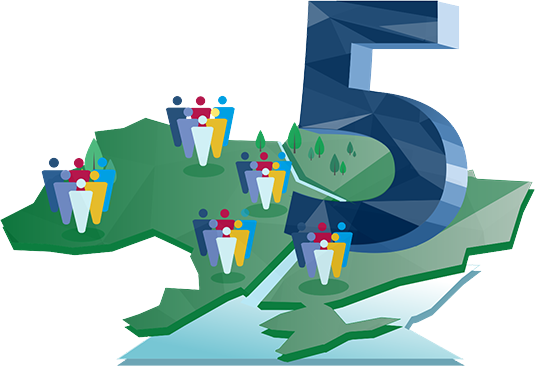
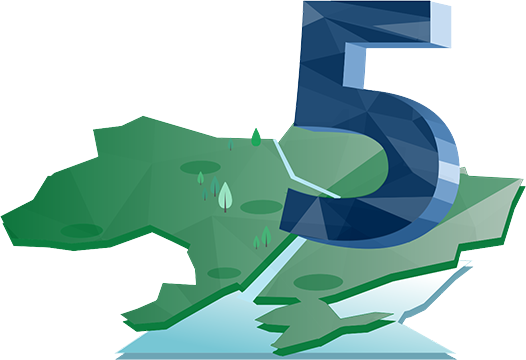
end of ww

diff --git a/include/css/main.css b/include/css/main.css
@@ -1785,6 +1785,77 @@ footer .info-block:hover {
     transform: translateX(500px);
   }
 }
+.ww3-man1,
+.ww3-man2,
+.ww3-man3,
+.ww3-man4,
+.ww3-man5,
+.ww3-man6,
+.ww3-man7 {
+  position: absolute;
+  top: 250px;
+  left: 600px;
+  z-index: 12;
+  opacity: 0;
+  animation: walk 4s linear 1s infinite;
+}
+.ww3-man1 {
+  top: 265px;
+  left: 600px;
+}
+.ww3-man2 {
+  top: 265px;
+  left: 605px;
+  animation-duration: 3.5s;
+  animation-delay: 2s;
+}
+.ww3-man3 {
+  top: 255px;
+  left: 595px;
+  animation-duration: 3.2s;
+  animation-delay: 1.5s;
+}
+.ww3-man4 {
+  top: 255px;
+  left: 605px;
+  animation-duration: 3.5s;
+  animation-delay: 1.8s;
+}
+.ww3-man5 {
+  top: 250px;
+  left: 600px;
+  animation-duration: 5.5s;
+  animation-delay: 0s;
+}
+.ww3-man6 {
+  top: 255px;
+  left: 605px;
+  animation-duration: 5.5s;
+  animation-delay: .2s;
+}
+.ww3-man7 {
+  top: 255px;
+  left: 605px;
+  animation-duration: 3.5s;
+  animation-delay: .2s;
+}
+@keyframes walk {
+  0% {
+    opacity: 0
+  }
+  2% {
+    opacity: 1
+  }
+  70% {
+   transform: translate(-420px, -5px);
+  }
+  95% {
+    opacity: 1;
+  }
+  100% {
+    transform: translate(-500px, -60px);
+  }
+}
 /*why we animation on third image*/
 .ww4-1 {
   position: absolute;
@@ -1830,8 +1901,8 @@ footer .info-block:hover {
 }
 .ww4-7 {
   position: absolute;
-  top: 150px;
-  left: 465px;
+  top: 160px;
+  left: 468px;
   transform-origin: 50% 70%;
   animation: trees 6s linear alternate infinite;
 }
@@ -1855,6 +1926,49 @@ footer .info-block:hover {
   }
   100% {
     transform: skewX(-5deg);
+  }
+}
+.ww4-people1 {
+  position: absolute;
+  top: 50px;
+  left: 390px;
+  z-index: 30;
+  animation: ppls .8s ease-in-out 0s infinite alternate;
+}
+.ww4-people2 {
+  position: absolute;
+  top: 105px;
+  left: 600px;
+  z-index: 30;
+  animation: ppls .8s ease-in-out .1s infinite alternate;
+}
+.ww4-people3 {
+  position: absolute;
+  top: -10px;
+  left: 698px;
+  z-index: 30;
+  animation: ppls .8s ease-in-out 0.2s infinite alternate;
+}
+.ww4-people4 {
+  position: absolute;
+  top: -205px;
+  left: 293px;
+  z-index: 30;
+  animation: ppls .8s ease-in-out 0.3s infinite alternate;
+}
+.ww4-people5 {
+  position: absolute;
+  top: -233px;
+  left: 295px;
+  z-index: 30;
+  animation: ppls .8s ease-in-out 0.4s infinite alternate;
+}
+@keyframes ppls {
+  0% {
+    transform: translateY(-5px)
+  }
+  100% {
+    transform: translateY(5px)
   }
 }
 /**************************/
@@ -2071,6 +2185,9 @@ footer .info-block:hover {
     transform: translateY(0px)
   }
 }
+/***************************************/
+/*facebook animatio*/
+/****************************************/
 .fb {
   width: 159px;
   height: 67px;

diff --git a/index.html b/index.html
@@ -193,6 +193,13 @@
               <img src="/include/images/whywe3-2.png" alt="tycha" class="ww3-2">
               <img src="/include/images/whywe3-3.png" alt="tycha" class="ww3-3">
               <img src="/include/images/whywe3-4.png" alt="tycha" class="ww3-4">
+              <img src="/include/images/man-small-blue.png" alt="man" class="ww3-man1">
+              <img src="/include/images/man-small-orange.png" alt="man" class="ww3-man2">
+              <img src="/include/images/man-small-pink.png" alt="man" class="ww3-man3">
+              <img src="/include/images/man-small-red.png" alt="man" class="ww3-man4">
+              <img src="/include/images/man-small-violent.png" alt="man" class="ww3-man5">
+              <img src="/include/images/man-small-yellow.png" alt="man" class="ww3-man6">
+              <img src="/include/images/man-small-yellow.png" alt="man" class="ww3-man7">
             </div>
           </div>
           <div class="description">
@@ -217,6 +224,11 @@
               <img src="/include/images/whywe4-7.png" alt="tree-7" class="ww4-7">
               <img src="/include/images/whywe4-8.png" alt="tree-8" class="ww4-8">
               <img src="/include/images/whywe4-11.png" alt="tree-10" class="ww4-11">
+              <img src="/include/images/ww4-people1.png" alt="peoples" class="ww4-people1">
+              <img src="/include/images/ww4-people2.png" alt="peoples" class="ww4-people2">
+              <img src="/include/images/ww4-people3.png" alt="peoples" class="ww4-people3">
+              <img src="/include/images/ww4-people4.png" alt="peoples" class="ww4-people4">
+              <img src="/include/images/ww4-people5.png" alt="peoples" class="ww4-people5">
             </div>
           </div>
         </li>
